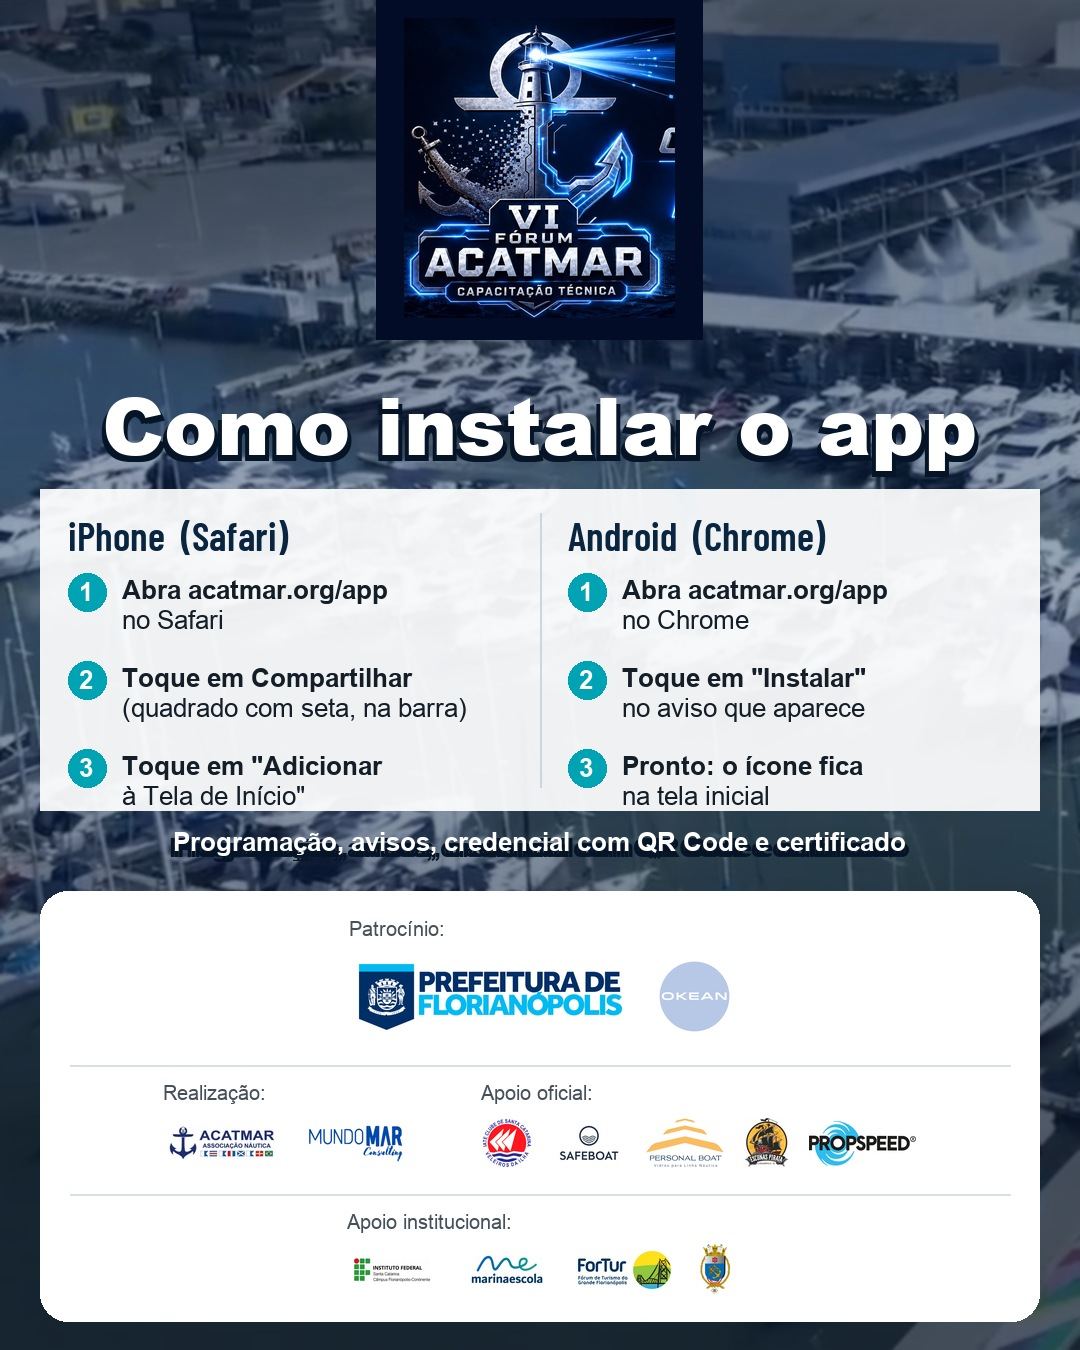
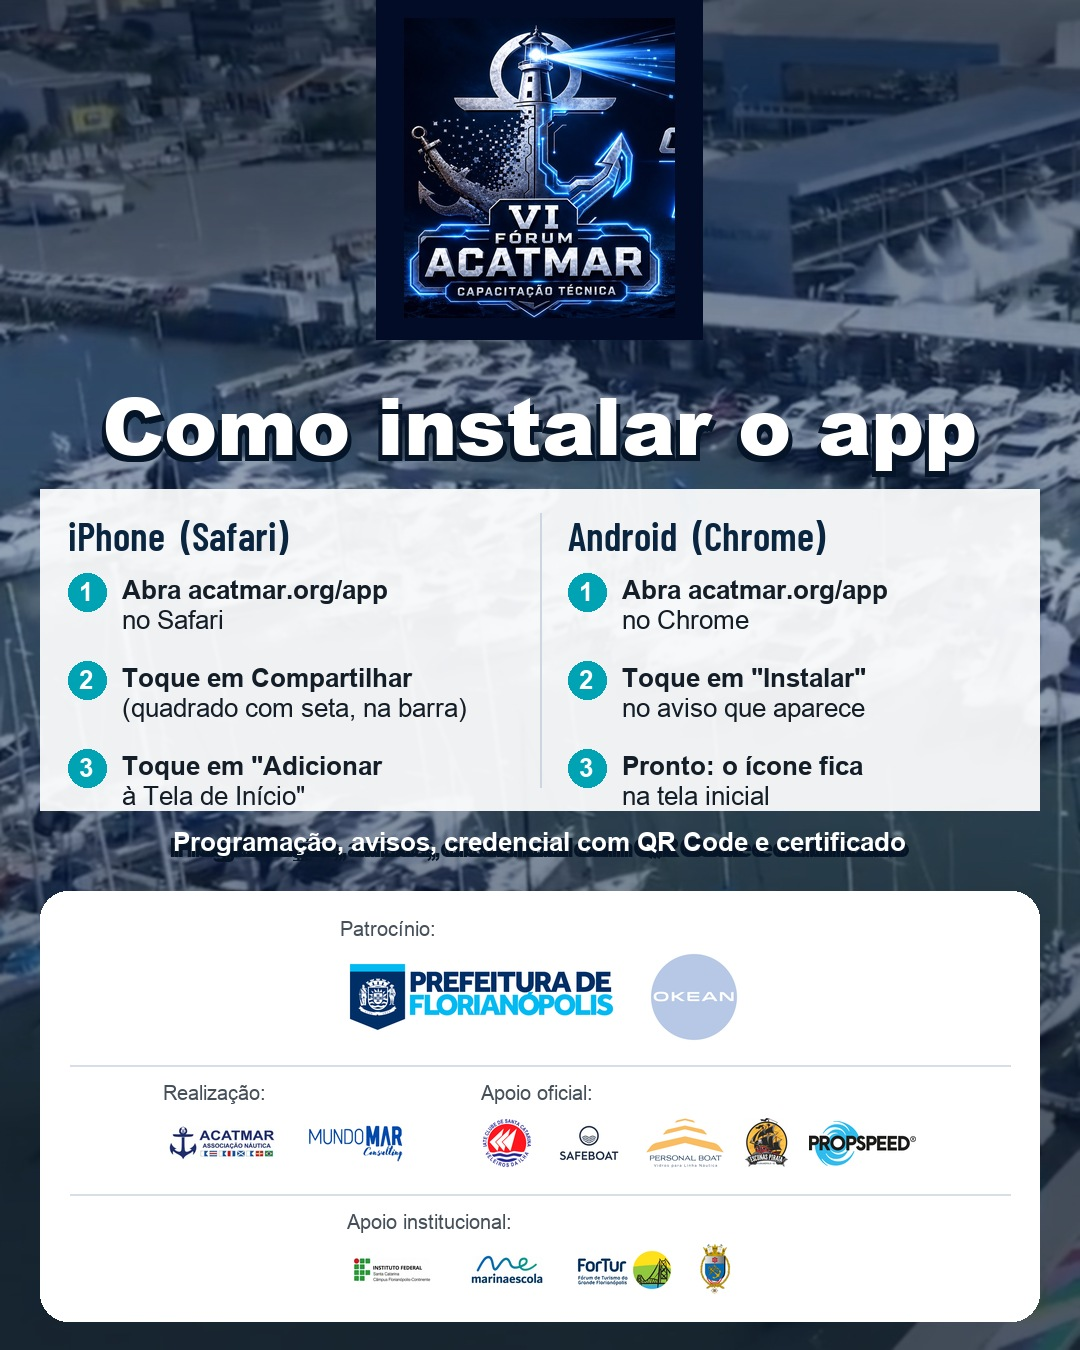
Okean maior no patrocinio

Changed region(s): [[0.3056, 0.6844, 0.7028, 0.7778]]

diff --git a/app/sw.js b/app/sw.js
@@ -1,6 +1,6 @@
 /* Service worker do app do VI Fórum ACATMAR */
-var CACHE='forum-acatmar-v37';
-var SHELL=['./','index.html','app.css?v=35','app.js?v=35','lib/qrcode.min.js','lib/jspdf.umd.min.js','manifest.webmanifest','icons/icon-192.png','icons/icon-512.png','media/hero.jpg','media/emblema-v2.jpg','media/ifsc-continente.jpg','../media/logos/acatmar-branca.png','media/logos/prefeitura-florianopolis.png','media/logos/acatmar.png','media/logos/mundo-mar.png','media/logos/safeboat.png','media/logos/personal-boat-v2.png','media/logos/ifsc.png','media/logos/marina-escola.png','media/logos/okean-world.png','media/logos/veleiros-da-ilha.png','media/logos/fortur.png','media/logos/capitania-sc.png'];
+var CACHE='forum-acatmar-v38';
+var SHELL=['./','index.html','app.css?v=36','app.js?v=36','lib/qrcode.min.js','lib/jspdf.umd.min.js','manifest.webmanifest','icons/icon-192.png','icons/icon-512.png','media/hero.jpg','media/emblema-v2.jpg','media/ifsc-continente.jpg','../media/logos/acatmar-branca.png','media/logos/prefeitura-florianopolis.png','media/logos/acatmar.png','media/logos/mundo-mar.png','media/logos/safeboat.png','media/logos/personal-boat-v2.png','media/logos/ifsc.png','media/logos/marina-escola.png','media/logos/okean-world.png','media/logos/veleiros-da-ilha.png','media/logos/fortur.png','media/logos/capitania-sc.png'];
 self.addEventListener('install',function(e){e.waitUntil(caches.open(CACHE).then(function(c){return Promise.all(SHELL.map(function(u){return c.add(u).catch(function(){});}));}).then(function(){return self.skipWaiting();}));});
 self.addEventListener('activate',function(e){e.waitUntil(caches.keys().then(function(ks){return Promise.all(ks.filter(function(k){return k!==CACHE;}).map(function(k){return caches.delete(k);}));}).then(function(){return self.clients.claim();}));});
 self.addEventListener('fetch',function(e){

diff --git a/app/index.html b/app/index.html
@@ -25,7 +25,7 @@
 <link rel="preconnect" href="https://fonts.googleapis.com">
 <link rel="preconnect" href="https://fonts.gstatic.com" crossorigin>
 <link href="https://fonts.googleapis.com/css2?family=Oswald:wght@500;600;700&family=Barlow+Condensed:wght@500;600;700&family=Inter:wght@400;500;600;700&display=swap" rel="stylesheet">
-<link rel="stylesheet" href="app.css?v=36">
+<link rel="stylesheet" href="app.css?v=37">
 </head>
 <body>
 <div id="splash" class="splash" aria-hidden="true"><img src="icons/icon-192.png" alt=""><div class="splash-t">VI Fórum ACATMAR</div><div class="splash-s">carregando…</div></div>
@@ -59,6 +59,6 @@
 <div id="toast" class="toast" hidden></div>
 
 <script src="lib/qrcode.min.js"></script>
-<script src="app.js?v=36"></script>
+<script src="app.js?v=37"></script>
 </body>
 </html>

diff --git a/app/app.js b/app/app.js
@@ -1,7 +1,7 @@
 /* App do VI Fórum ACATMAR — PWA sem framework. Conteúdo vem de data/forum.json */
 (function(){
 'use strict';
-var APP_V=36;
+var APP_V=37;
 var D=null, view=document.getElementById('view');
 var LS={get:function(k,d){try{var v=localStorage.getItem('forum_'+k);return v==null?d:JSON.parse(v);}catch(e){return d;}},set:function(k,v){try{localStorage.setItem('forum_'+k,JSON.stringify(v));}catch(e){}}};
 var API='https://acatmar-app.programamundomar.workers.dev';

diff --git a/en/numbers.html b/en/numbers.html
@@ -414,6 +414,7 @@ html.locked .ufs{display:none}
 
 
 
+
 <link rel="alternate" hreflang="pt-BR" href="https://www.acatmar.org/numeros">
 <link rel="alternate" hreflang="en" href="https://www.acatmar.org/en/numbers">
 <link rel="alternate" hreflang="x-default" href="https://www.acatmar.org/numeros">

diff --git a/numeros.html b/numeros.html
@@ -414,6 +414,7 @@ html.locked .ufs{display:none}
 
 
 
+
 <link rel="alternate" hreflang="pt-BR" href="https://www.acatmar.org/numeros">
 <link rel="alternate" hreflang="en" href="https://www.acatmar.org/en/numbers">
 <link rel="alternate" hreflang="x-default" href="https://www.acatmar.org/numeros">

diff --git a/en/privacy-policy.html b/en/privacy-policy.html
@@ -302,6 +302,7 @@
 
 
 
+
 <link rel="alternate" hreflang="pt-BR" href="https://www.acatmar.org/privacidade.html">
 <link rel="alternate" hreflang="en" href="https://www.acatmar.org/en/privacy-policy.html">
 <link rel="alternate" hreflang="x-default" href="https://www.acatmar.org/privacidade.html">

diff --git a/privacidade.html b/privacidade.html
@@ -302,6 +302,7 @@
 
 
 
+
 <link rel="alternate" hreflang="pt-BR" href="https://www.acatmar.org/privacidade.html">
 <link rel="alternate" hreflang="en" href="https://www.acatmar.org/en/privacy-policy.html">
 <link rel="alternate" hreflang="x-default" href="https://www.acatmar.org/privacidade.html">

diff --git a/cookies.html b/cookies.html
@@ -303,6 +303,7 @@
 
 
 
+
 <link rel="alternate" hreflang="pt-BR" href="https://www.acatmar.org/cookies.html">
 <link rel="alternate" hreflang="en" href="https://www.acatmar.org/en/cookie-policy.html">
 <link rel="alternate" hreflang="x-default" href="https://www.acatmar.org/cookies.html">

diff --git a/en/cookie-policy.html b/en/cookie-policy.html
@@ -303,6 +303,7 @@
 
 
 
+
 <link rel="alternate" hreflang="pt-BR" href="https://www.acatmar.org/cookies.html">
 <link rel="alternate" hreflang="en" href="https://www.acatmar.org/en/cookie-policy.html">
 <link rel="alternate" hreflang="x-default" href="https://www.acatmar.org/cookies.html">

diff --git a/en/thank-you.html b/en/thank-you.html
@@ -261,6 +261,7 @@
 
 
 
+
 <link rel="alternate" hreflang="pt-BR" href="https://www.acatmar.org/obrigado.html">
 <link rel="alternate" hreflang="en" href="https://www.acatmar.org/en/thank-you.html">
 <link rel="alternate" hreflang="x-default" href="https://www.acatmar.org/obrigado.html">

diff --git a/obrigado.html b/obrigado.html
@@ -261,6 +261,7 @@
 
 
 
+
 <link rel="alternate" hreflang="pt-BR" href="https://www.acatmar.org/obrigado.html">
 <link rel="alternate" hreflang="en" href="https://www.acatmar.org/en/thank-you.html">
 <link rel="alternate" hreflang="x-default" href="https://www.acatmar.org/obrigado.html">

diff --git a/associe-se.html b/associe-se.html
@@ -363,6 +363,7 @@
 
 
 
+
 <link rel="alternate" hreflang="pt-BR" href="https://www.acatmar.org/associe-se.html">
 <link rel="alternate" hreflang="en" href="https://www.acatmar.org/en/join.html">
 <link rel="alternate" hreflang="x-default" href="https://www.acatmar.org/associe-se.html">
